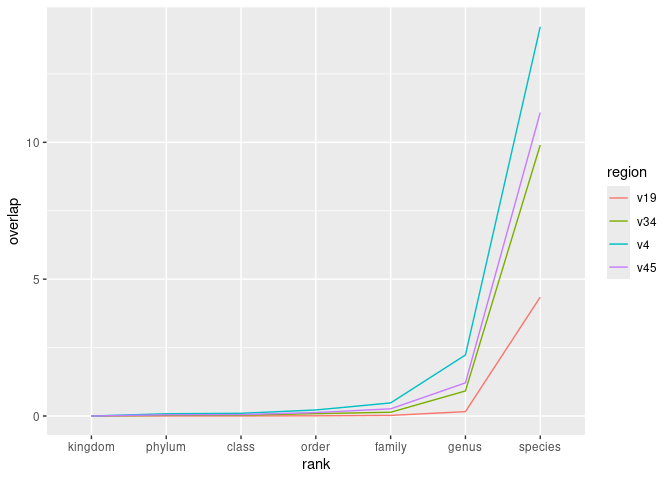
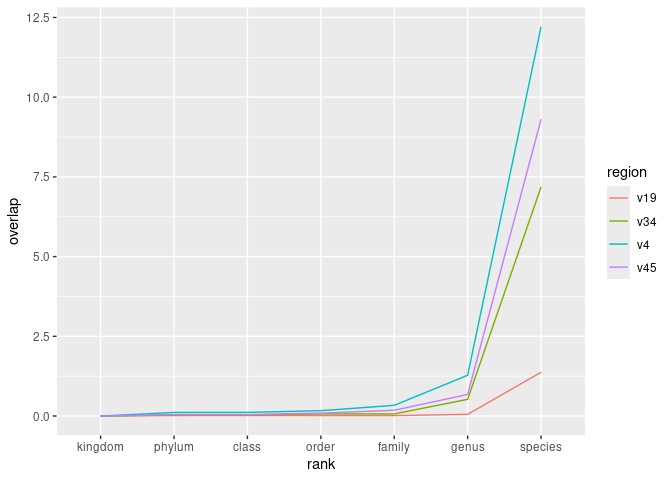
Compute overlap of ASVs over 100 random sampling of genomes using threshold of 1, closes #30

diff --git a/exploratory/2024-09-22-asv-taxa-overlap.md b/exploratory/2024-09-22-asv-taxa-overlap.md
@@ -39,8 +39,38 @@ for relatedness later but let us now answer the general question for any
 two taxa from the same rank.
 
 ``` r
+# set RNG seed to bday
+set.seed(19841509)
+threshold<- 3
+# metadata_asv - species, genome_ids
+subsample_species<- metadata_asv |> 
+  select(genome_id,species) |> 
+# return the distinct/unique rows
+  distinct() |> 
+# group by species
+  group_by(species) |> 
+# slice_sample on each species for N geneomes
+  slice_sample(n=threshold) |> 
+  ungroup()
+
+good_species<- subsample_species |>  
+# count number of genomes in each species
+  count(species) |> 
+# return species that have N genomes/filter out species with fewer 
+  filter(n==threshold) |> 
+  select(species) 
+
+# going back to original list of species/genomes -return genome_ids from
+# species with atleast  N genomes
+subsampled_genomes<- subsample_species |> 
+  inner_join(good_species,by="species") |> 
+  select(genome_id)
+
+
 # metadata_asv - input data
 overlap_data<- metadata_asv |> 
+# genome_ids from species with atleast  N genomes
+inner_join(subsampled_genomes,by="genome_id") |> 
 # - focus on taxonomic ranks - from kingdom to species, asvs and region
 select(-genome_id,-count,-strain) |> 
 # - make data frame tidy
@@ -83,10 +113,10 @@ overlap_data |>
 
 | region | rank    |   overlap |
 |:-------|:--------|----------:|
-| v19    | species |  4.344998 |
-| v34    | species |  9.902491 |
-| v4     | species | 14.222802 |
-| v45    | species | 11.089297 |
+| v19    | species |  1.372346 |
+| v34    | species |  7.187194 |
+| v4     | species | 12.208657 |
+| v45    | species |  9.307554 |
 
 ### Conclusions
 
